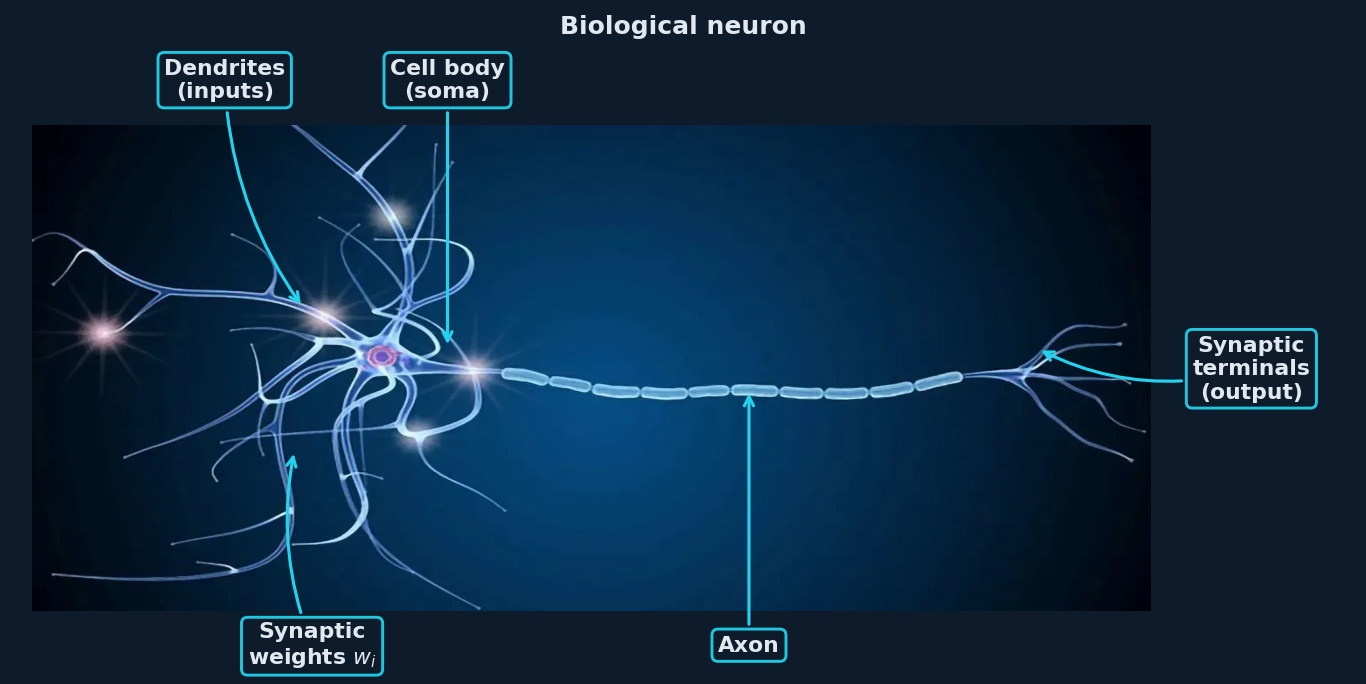
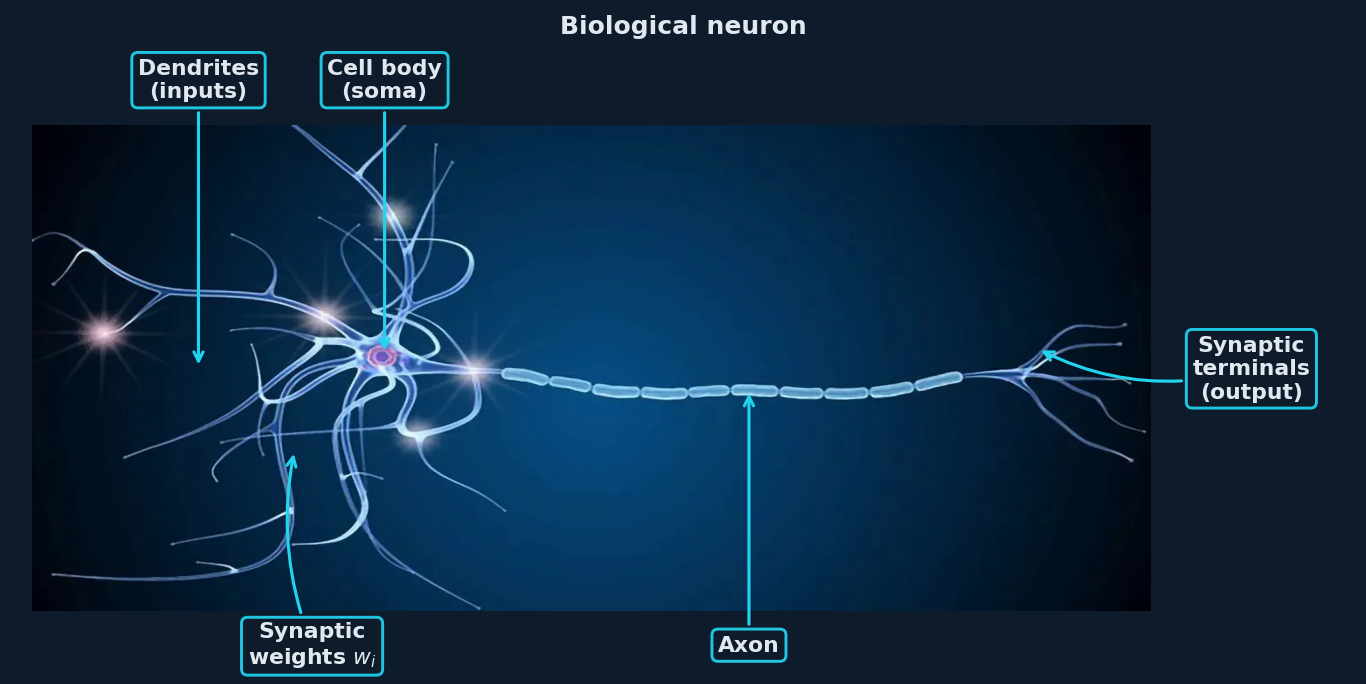
Fix bio neuron annotation arrow targets using probed pixel coordinates
Dendrites target: (190,360) — verified left dendritic tree area
Cell body target: (403,340) — exact soma centroid from pixel probe

diff --git a/gen_neuron.py b/gen_neuron.py
@@ -45,8 +45,8 @@ def ann(ax_, label, lx, ly, px, py, rad=0.0):
     )
 
 # Dendrites and soma: labels above the image (ly < 0)
-ann(ax, 'Dendrites\n(inputs)',     220,  -68,  310, 270, rad= 0.15)
-ann(ax, 'Cell body\n(soma)',       475,  -68,  475, 330, rad= 0.0)
+ann(ax, 'Dendrites\n(inputs)',     190,  -68,  190, 360, rad= 0.0)
+ann(ax, 'Cell body\n(soma)',       403,  -68,  403, 340, rad= 0.0)
 
 # Synaptic terminals: label to the RIGHT of the image (lx > W)
 ann(ax, 'Synaptic\nterminals\n(output)', W + 115, H // 2, 1150, 330, rad=-0.20)
